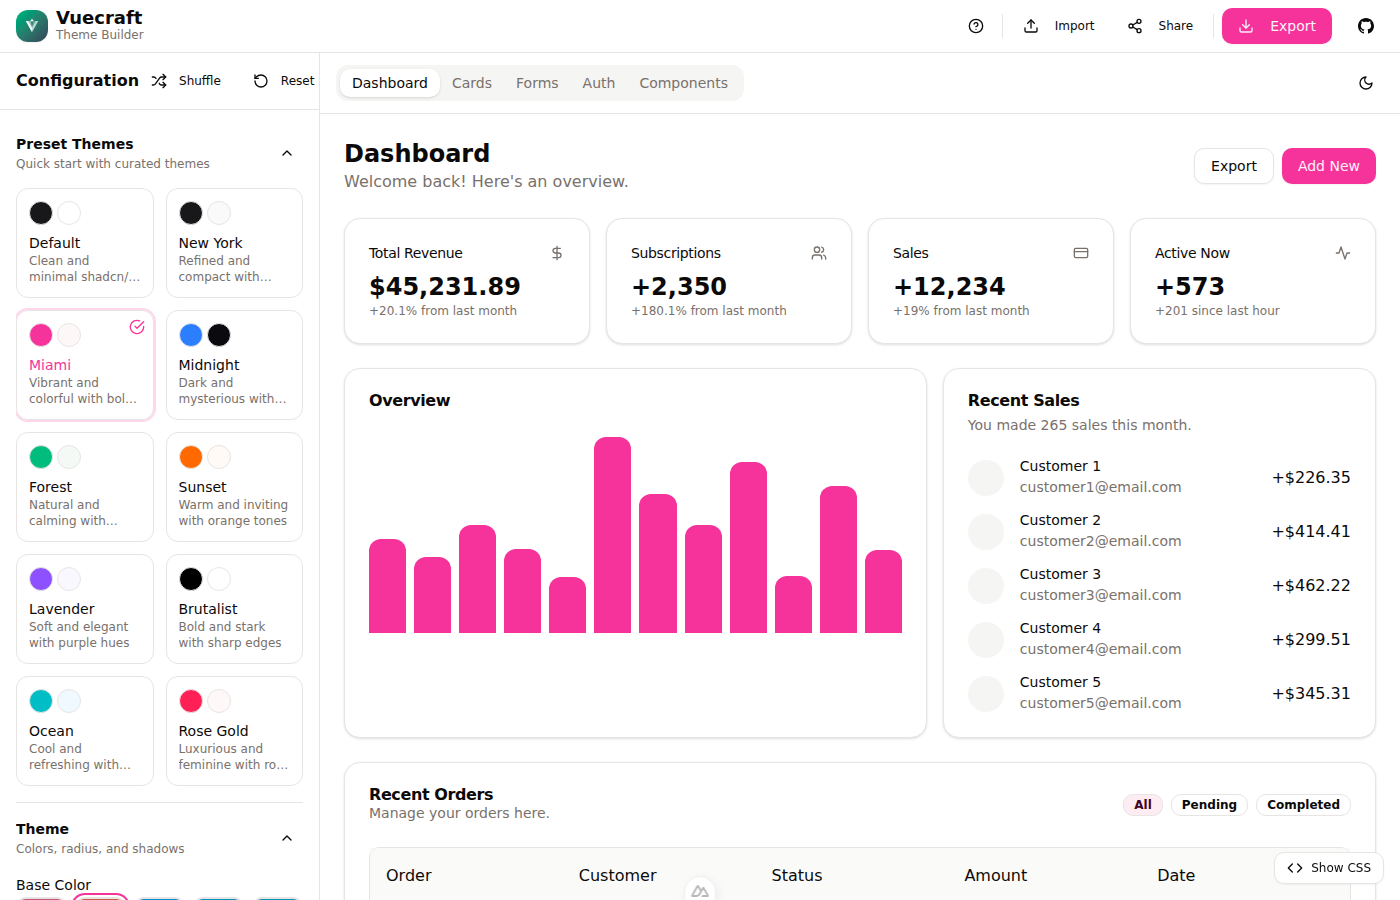
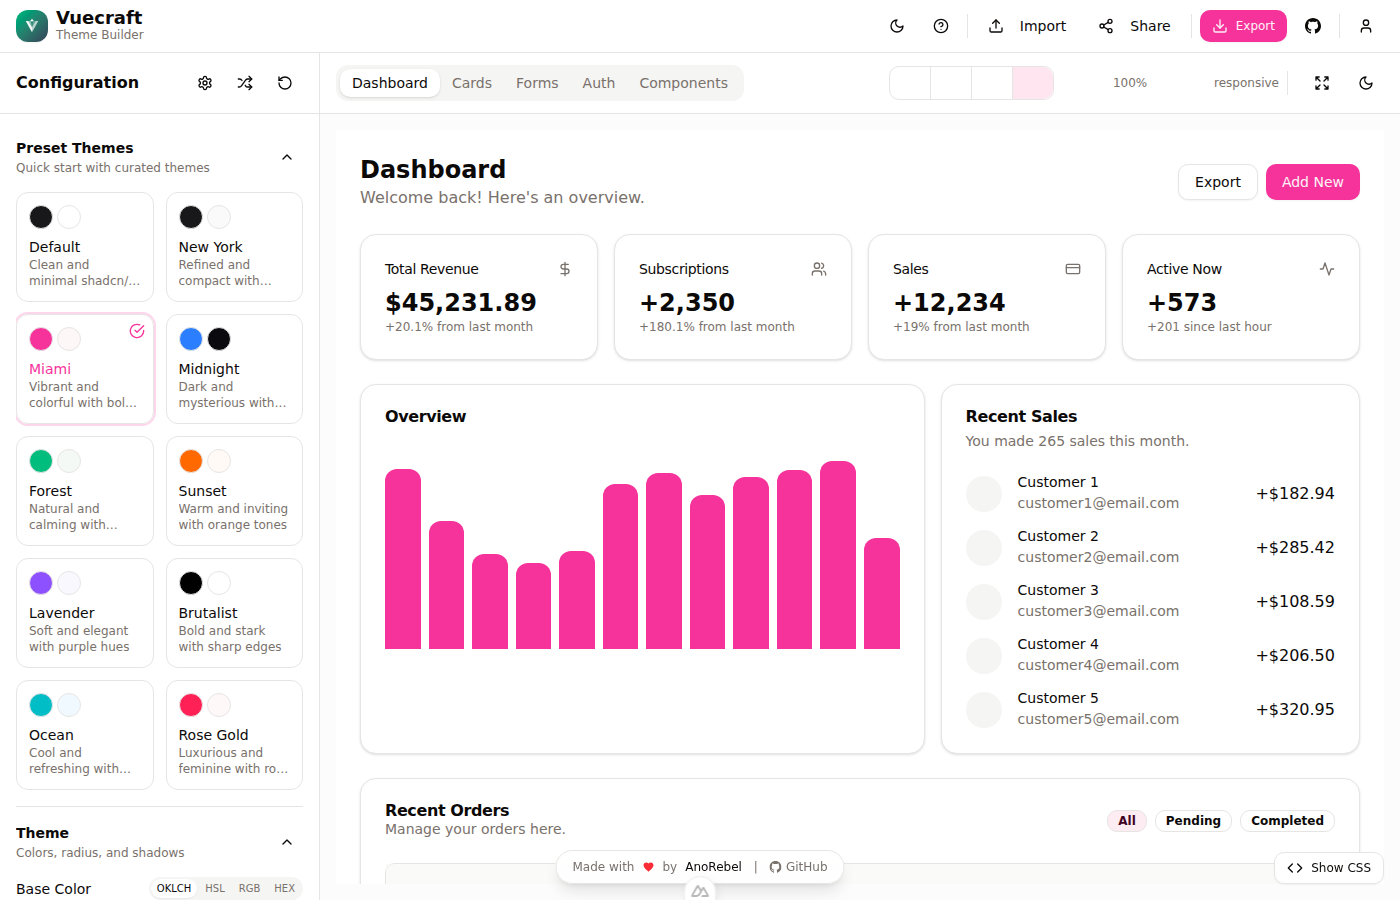
feat: add Element Inspector and update screenshots
- Add ElementInspector component with hover highlighting
- Show element tag, component name, classes, and CSS variables
- Add inspector toggle button in preview header
- Add "Inspector Mode" indicator when enabled
- Update all theme and feature screenshots with new UI

diff --git a/components/preview/ElementInspector.vue b/components/preview/ElementInspector.vue
@@ -1,0 +1,244 @@
+<script setup lang="ts">
+import { ref, onMounted, onUnmounted, nextTick } from 'vue'
+
+interface Props {
+  enabled: boolean
+  containerRef: HTMLElement | null
+}
+
+const props = defineProps<Props>()
+defineEmits<{
+  close: []
+}>()
+
+// Inspector state
+const hoveredElement = ref<HTMLElement | null>(null)
+const tooltipPosition = ref({ x: 0, y: 0 })
+const highlightBox = ref({ x: 0, y: 0, width: 0, height: 0 })
+
+// Element info
+const elementInfo = ref({
+  tagName: '',
+  componentName: '',
+  classes: [] as string[],
+  cssVariables: [] as { name: string; value: string }[],
+  dimensions: { width: 0, height: 0 },
+})
+
+// Get component name from element
+function getComponentName(el: HTMLElement): string {
+  // Check for Vue component name via __vueParentComponent
+  const vueInstance = (el as any).__vueParentComponent
+  if (vueInstance?.type?.name) {
+    return vueInstance.type.name
+  }
+  if (vueInstance?.type?.__name) {
+    return vueInstance.type.__name
+  }
+
+  // Check data attributes
+  if (el.dataset.component) {
+    return el.dataset.component
+  }
+
+  // Check for common UI component patterns
+  const classStr = el.className
+  if (typeof classStr === 'string') {
+    // Look for common shadcn/reka patterns
+    if (classStr.includes('button')) return 'Button'
+    if (classStr.includes('card')) return 'Card'
+    if (classStr.includes('input')) return 'Input'
+    if (classStr.includes('badge')) return 'Badge'
+    if (classStr.includes('avatar')) return 'Avatar'
+    if (classStr.includes('dialog')) return 'Dialog'
+    if (classStr.includes('tabs')) return 'Tabs'
+    if (classStr.includes('select')) return 'Select'
+    if (classStr.includes('checkbox')) return 'Checkbox'
+    if (classStr.includes('switch')) return 'Switch'
+    if (classStr.includes('slider')) return 'Slider'
+    if (classStr.includes('progress')) return 'Progress'
+    if (classStr.includes('separator')) return 'Separator'
+    if (classStr.includes('tooltip')) return 'Tooltip'
+    if (classStr.includes('popover')) return 'Popover'
+    if (classStr.includes('dropdown')) return 'Dropdown'
+    if (classStr.includes('accordion')) return 'Accordion'
+    if (classStr.includes('alert')) return 'Alert'
+    if (classStr.includes('table')) return 'Table'
+  }
+
+  return ''
+}
+
+// Get relevant CSS variables from element
+function getCSSVariables(el: HTMLElement): { name: string; value: string }[] {
+  const variables: { name: string; value: string }[] = []
+  const style = getComputedStyle(el)
+
+  // Check common CSS variable properties
+  const varProps = [
+    '--color-primary',
+    '--color-background',
+    '--color-foreground',
+    '--color-muted',
+    '--color-accent',
+    '--color-border',
+    '--radius',
+  ]
+
+  for (const prop of varProps) {
+    const value = style.getPropertyValue(prop).trim()
+    if (value) {
+      variables.push({ name: prop, value })
+    }
+  }
+
+  return variables.slice(0, 5) // Limit to 5 variables
+}
+
+// Handle mouse move
+function handleMouseMove(event: MouseEvent) {
+  if (!props.enabled || !props.containerRef) return
+
+  const target = event.target as HTMLElement
+
+  // Skip if it's the inspector overlay itself
+  if (target.closest('.element-inspector-overlay')) return
+
+  // Skip if same element
+  if (target === hoveredElement.value) {
+    // Just update tooltip position
+    tooltipPosition.value = { x: event.clientX + 15, y: event.clientY + 15 }
+    return
+  }
+
+  hoveredElement.value = target
+
+  // Get element bounds relative to viewport
+  const rect = target.getBoundingClientRect()
+  const containerRect = props.containerRef.getBoundingClientRect()
+
+  highlightBox.value = {
+    x: rect.left - containerRect.left,
+    y: rect.top - containerRect.top,
+    width: rect.width,
+    height: rect.height,
+  }
+
+  tooltipPosition.value = { x: event.clientX + 15, y: event.clientY + 15 }
+
+  // Gather element info
+  const classes = typeof target.className === 'string'
+    ? target.className.split(' ').filter(c => c.trim())
+    : []
+
+  elementInfo.value = {
+    tagName: target.tagName.toLowerCase(),
+    componentName: getComponentName(target),
+    classes: classes.slice(0, 6), // Limit classes shown
+    cssVariables: getCSSVariables(target),
+    dimensions: { width: Math.round(rect.width), height: Math.round(rect.height) },
+  }
+}
+
+// Handle mouse leave
+function handleMouseLeave() {
+  hoveredElement.value = null
+}
+
+// Handle click to "pin" the inspector on an element
+function handleClick(event: MouseEvent) {
+  if (!props.enabled) return
+  event.preventDefault()
+  event.stopPropagation()
+}
+
+// Setup/cleanup event listeners
+onMounted(() => {
+  nextTick(() => {
+    if (props.containerRef) {
+      props.containerRef.addEventListener('mousemove', handleMouseMove)
+      props.containerRef.addEventListener('mouseleave', handleMouseLeave)
+      props.containerRef.addEventListener('click', handleClick, true)
+    }
+  })
+})
+
+onUnmounted(() => {
+  if (props.containerRef) {
+    props.containerRef.removeEventListener('mousemove', handleMouseMove)
+    props.containerRef.removeEventListener('mouseleave', handleMouseLeave)
+    props.containerRef.removeEventListener('click', handleClick, true)
+  }
+})
+</script>
+
+<template>
+  <div v-if="enabled" class="element-inspector-overlay pointer-events-none absolute inset-0 z-50">
+    <!-- Highlight box -->
+    <div
+      v-if="hoveredElement"
+      class="absolute border-2 border-blue-500 bg-blue-500/10 transition-all duration-75"
+      :style="{
+        left: `${highlightBox.x}px`,
+        top: `${highlightBox.y}px`,
+        width: `${highlightBox.width}px`,
+        height: `${highlightBox.height}px`,
+      }"
+    />
+
+    <!-- Tooltip -->
+    <Teleport to="body">
+      <div
+        v-if="hoveredElement && enabled"
+        class="fixed z-[100] max-w-xs bg-popover border border-border rounded-lg shadow-lg p-3 text-xs pointer-events-none"
+        :style="{
+          left: `${Math.min(tooltipPosition.x, window.innerWidth - 280)}px`,
+          top: `${Math.min(tooltipPosition.y, window.innerHeight - 200)}px`,
+        }"
+      >
+        <!-- Tag/Component name -->
+        <div class="flex items-center gap-2 mb-2">
+          <span class="font-mono text-blue-500">&lt;{{ elementInfo.tagName }}&gt;</span>
+          <span v-if="elementInfo.componentName" class="px-1.5 py-0.5 bg-primary/10 text-primary rounded text-[10px] font-medium">
+            {{ elementInfo.componentName }}
+          </span>
+        </div>
+
+        <!-- Dimensions -->
+        <div class="text-muted-foreground mb-2">
+          {{ elementInfo.dimensions.width }} × {{ elementInfo.dimensions.height }}px
+        </div>
+
+        <!-- Classes -->
+        <div v-if="elementInfo.classes.length > 0" class="mb-2">
+          <div class="text-muted-foreground mb-1">Classes:</div>
+          <div class="flex flex-wrap gap-1">
+            <span
+              v-for="cls in elementInfo.classes"
+              :key="cls"
+              class="px-1 py-0.5 bg-muted rounded text-[10px] font-mono"
+            >
+              .{{ cls }}
+            </span>
+          </div>
+        </div>
+
+        <!-- CSS Variables -->
+        <div v-if="elementInfo.cssVariables.length > 0">
+          <div class="text-muted-foreground mb-1">CSS Variables:</div>
+          <div class="space-y-0.5">
+            <div
+              v-for="cssVar in elementInfo.cssVariables"
+              :key="cssVar.name"
+              class="flex items-center gap-1 font-mono text-[10px]"
+            >
+              <span class="text-purple-500">{{ cssVar.name }}</span>
+              <span class="text-muted-foreground">:</span>
+              <span class="truncate">{{ cssVar.value }}</span>
+            </div>
+          </div>
+        </div>
+      </div>
+    </Teleport>
+  </div>
+</template>

diff --git a/components/preview/PreviewPanel.vue b/components/preview/PreviewPanel.vue
@@ -6,11 +6,13 @@ import { useResponsivePreview } from '~/composables/useResponsivePreview'
 import { generateCSSVariables } from '~/utils/cssGenerator'
 import { Tabs, TabsList, TabsTrigger } from '~/components/ui/tabs'
 import { Button } from '~/components/ui/button'
+import { Tooltip } from '~/components/ui/tooltip'
 import PreviewDashboard from './PreviewDashboard.vue'
 import PreviewCards from './PreviewCards.vue'
 import PreviewForms from './PreviewForms.vue'
 import PreviewAuth from './PreviewAuth.vue'
 import PreviewComponents from './PreviewComponents.vue'
+import ElementInspector from './ElementInspector.vue'
 import ResponsivePreviewControls from '~/components/ResponsivePreviewControls.vue'
 
 const { config } = useDesignSystem()
@@ -18,6 +20,8 @@ const { toggleColorMode, isDark } = useColorMode()
 const { previewStyles, isResponsive } = useResponsivePreview()
 
 const activeTemplate = ref('dashboard')
+const inspectorEnabled = ref(false)
+const previewContainerRef = ref<HTMLElement | null>(null)
 
 // Generate CSS variables from config - this computed will reactively update
 const generatedCSS = computed(() => {
@@ -100,6 +104,32 @@ onMounted(() => {
           <ResponsivePreviewControls />
           <div class="w-px h-6 bg-border mx-2" />
         </div>
+        <!-- Element Inspector Toggle -->
+        <Tooltip content="Element Inspector" side="bottom">
+          <Button
+            variant="ghost"
+            size="icon"
+            :class="{ 'bg-blue-500/10 text-blue-500': inspectorEnabled }"
+            @click="inspectorEnabled = !inspectorEnabled"
+          >
+            <svg
+              xmlns="http://www.w3.org/2000/svg"
+              width="16"
+              height="16"
+              viewBox="0 0 24 24"
+              fill="none"
+              stroke="currentColor"
+              stroke-width="2"
+              stroke-linecap="round"
+              stroke-linejoin="round"
+            >
+              <path d="m21 21-6-6m6 6v-4.8m0 4.8h-4.8" />
+              <path d="M3 16.2V21m0 0h4.8M3 21l6-6" />
+              <path d="M21 7.8V3m0 0h-4.8M21 3l-6 6" />
+              <path d="M3 7.8V3m0 0h4.8M3 3l6 6" />
+            </svg>
+          </Button>
+        </Tooltip>
         <Button
           variant="ghost"
           size="icon"
@@ -152,10 +182,12 @@ onMounted(() => {
       :class="{ 'p-0': isResponsive }"
     >
       <div
-        class="bg-background overflow-auto shadow-lg transition-all duration-200"
+        ref="previewContainerRef"
+        class="bg-background overflow-auto shadow-lg transition-all duration-200 relative"
         :class="{
           'w-full h-full shadow-none': isResponsive,
           'border rounded-lg': !isResponsive,
+          'cursor-crosshair': inspectorEnabled,
         }"
         :style="isResponsive ? {} : previewStyles"
       >
@@ -164,7 +196,54 @@ onMounted(() => {
         <PreviewForms v-else-if="activeTemplate === 'forms'" />
         <PreviewAuth v-else-if="activeTemplate === 'auth'" />
         <PreviewComponents v-else-if="activeTemplate === 'components'" />
+
+        <!-- Element Inspector Overlay -->
+        <ElementInspector
+          :enabled="inspectorEnabled"
+          :container-ref="previewContainerRef"
+          @close="inspectorEnabled = false"
+        />
       </div>
+    </div>
+
+    <!-- Inspector Mode Indicator -->
+    <div
+      v-if="inspectorEnabled"
+      class="absolute bottom-4 left-1/2 -translate-x-1/2 px-3 py-1.5 bg-blue-500 text-white text-xs rounded-full shadow-lg flex items-center gap-2"
+    >
+      <svg
+        xmlns="http://www.w3.org/2000/svg"
+        width="12"
+        height="12"
+        viewBox="0 0 24 24"
+        fill="none"
+        stroke="currentColor"
+        stroke-width="2"
+        stroke-linecap="round"
+        stroke-linejoin="round"
+      >
+        <path d="m21 21-6-6m6 6v-4.8m0 4.8h-4.8" />
+        <path d="M3 16.2V21m0 0h4.8M3 21l6-6" />
+        <path d="M21 7.8V3m0 0h-4.8M21 3l-6 6" />
+        <path d="M3 7.8V3m0 0h4.8M3 3l6 6" />
+      </svg>
+      <span>Inspector Mode</span>
+      <button class="ml-1 hover:bg-white/20 rounded p-0.5" @click="inspectorEnabled = false">
+        <svg
+          xmlns="http://www.w3.org/2000/svg"
+          width="12"
+          height="12"
+          viewBox="0 0 24 24"
+          fill="none"
+          stroke="currentColor"
+          stroke-width="2"
+          stroke-linecap="round"
+          stroke-linejoin="round"
+        >
+          <path d="M18 6 6 18" />
+          <path d="m6 6 12 12" />
+        </svg>
+      </button>
     </div>
   </div>
 </template>
